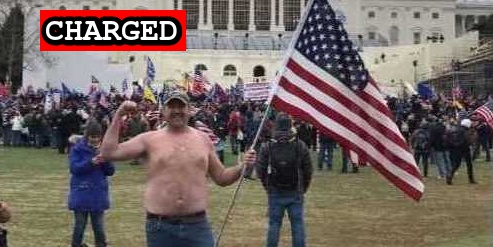
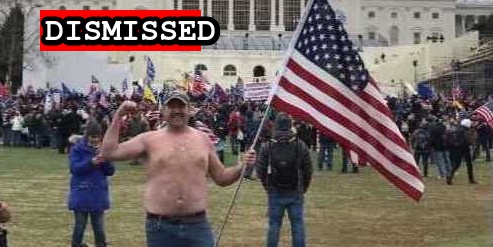
Add dismissal

Changed region(s): [[0.0609, 0.0283, 0.4564, 0.2267]]

diff --git a/docs/suspects/by_status.html b/docs/suspects/by_status.html
@@ -26,6 +26,27 @@ Total Count: {{ convicted.size }}
   {% endfor %}
 </table>
 
+{% assign dismissed = site.suspects | where_exp: "suspect", "suspect.status == 'Dismissed'" | sort:
+"dismissed" | reverse %}
+
+<h2 class="table">Suspects (Dismissed)</h2>
+Total Count: {{ dismissed.size }}
+
+<table class="suspects">
+  <tr>
+    <th><a href="/suspects/by_name">Name</a></th>
+    <th><a href="/suspects/by_state">Residence</a></th>
+    <th><a href="/suspects">Convicted</a></th>
+  </tr>
+  {% for suspect in dismissed %}
+  <tr>
+    <td><a href="{{ suspect.url }}">{{ suspect.name }}</a></td>
+    <td>{{ suspect.residence }}</td>
+    <td>{{ suspect.convicted | date: "%Y-%m-%d" }}</td>
+  </tr>
+  {% endfor %}
+</table>
+
 {% assign indicted = site.suspects | where_exp: "suspect", "suspect.status == 'Indicted'" | sort:
 "indicted" | reverse %}
 

diff --git a/docs/_suspects/christopher-kelly.md b/docs/_suspects/christopher-kelly.md
@@ -3,10 +3,11 @@ name: Christopher Kelly
 lastName: Kelly
 aka:
 residence: New York
-status: Charged
+status: Dismissed
 date: 2021-01-20
 charged: 2021-01-20
 indicted:
+dismissed: 2021-06-02
 age: 44
 occupation:
 affiliations:
@@ -18,26 +19,28 @@ courtroom:
 courthouse:
 raid:
 perpwalk:
-quote: "No worries, I’ll be with ex NYPD and some proud boys"
+quote: 'No worries, I’ll be with ex NYPD and some proud boys'
 title: Christopher Kelly charged on January 20, 2021
 description: Click for latest case details. Suspects innocent until proven guilty.
 author: seditiontrack
 layout: suspect
 published: true
 charges:
- - name: Obstruction of an official proceeding
-   code: 18 USC 1512
-   link: https://www.law.cornell.edu/uscode/text/18/1512
- - name: Aiding and abetting (2 counts)
-   code: 18 USC 2
-   link: https://www.law.cornell.edu/uscode/text/18/2
- - name: Unlawful entry on restricted building or grounds
-   code: 18 USC 1752
-   link: https://www.law.cornell.edu/uscode/text/18/1752
- - name: Violent entry or disorderly conduct on Capitol grounds
-   code: 40 USC 5104
-   link: https://www.law.cornell.edu/uscode/text/40/5104
+  - name: Obstruction of an official proceeding
+    code: 18 USC 1512
+    link: https://www.law.cornell.edu/uscode/text/18/1512
+  - name: Aiding and abetting (2 counts)
+    code: 18 USC 2
+    link: https://www.law.cornell.edu/uscode/text/18/2
+  - name: Unlawful entry on restricted building or grounds
+    code: 18 USC 1752
+    link: https://www.law.cornell.edu/uscode/text/18/1752
+  - name: Violent entry or disorderly conduct on Capitol grounds
+    code: 40 USC 5104
+    link: https://www.law.cornell.edu/uscode/text/40/5104
 ---
+
 - [News Report](https://www.nydailynews.com/new-york/ny-retired-nypd-brother-capitol-riot-charges-20210121-qnobfub6n5d6vexmco7jhktxem-story.html)
 - [Complaint](https://www.justice.gov/opa/page/file/1362961/download)
 - [Statement of Facts](https://www.justice.gov/opa/page/file/1362961/download)
+- [News Report (Dimissal)](https://13wham.com/news/nation-world/prosecutors-drop-case-against-man-charged-in-capitol-riot)
